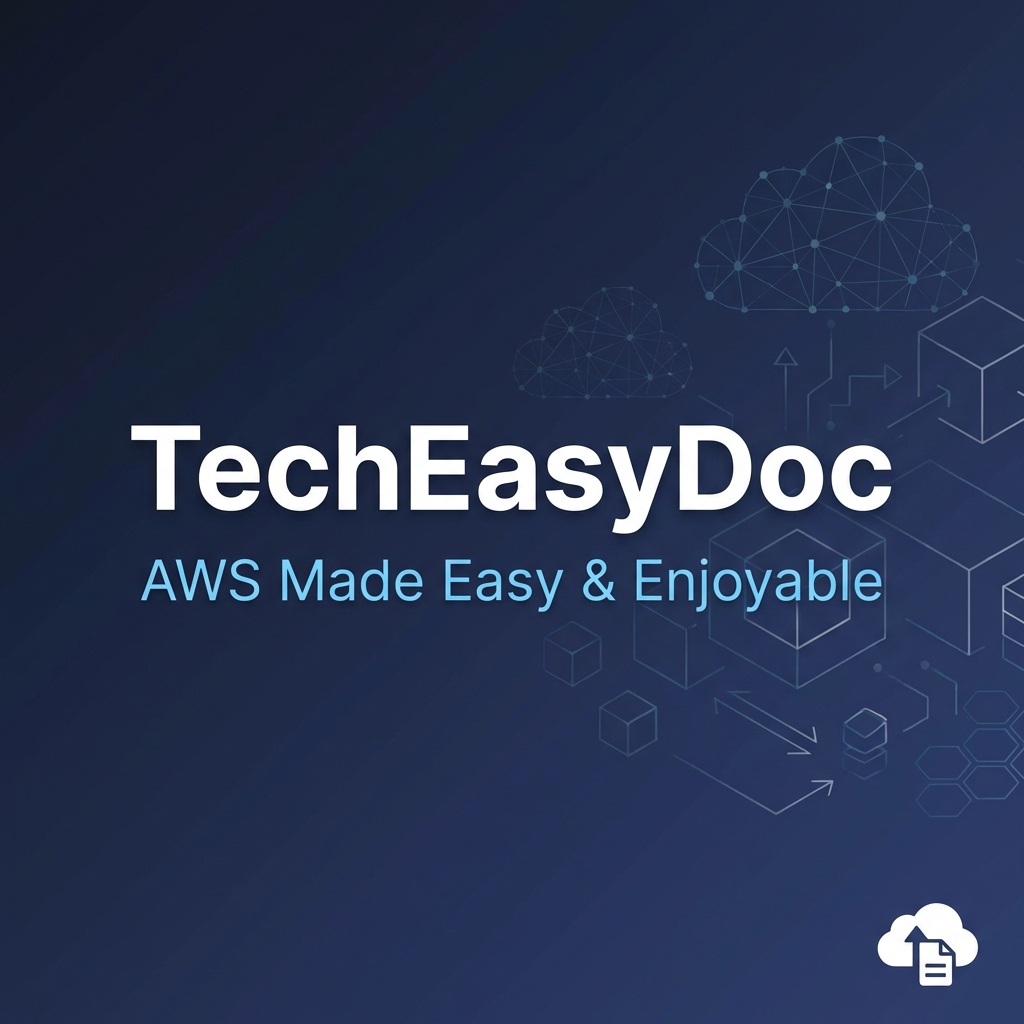
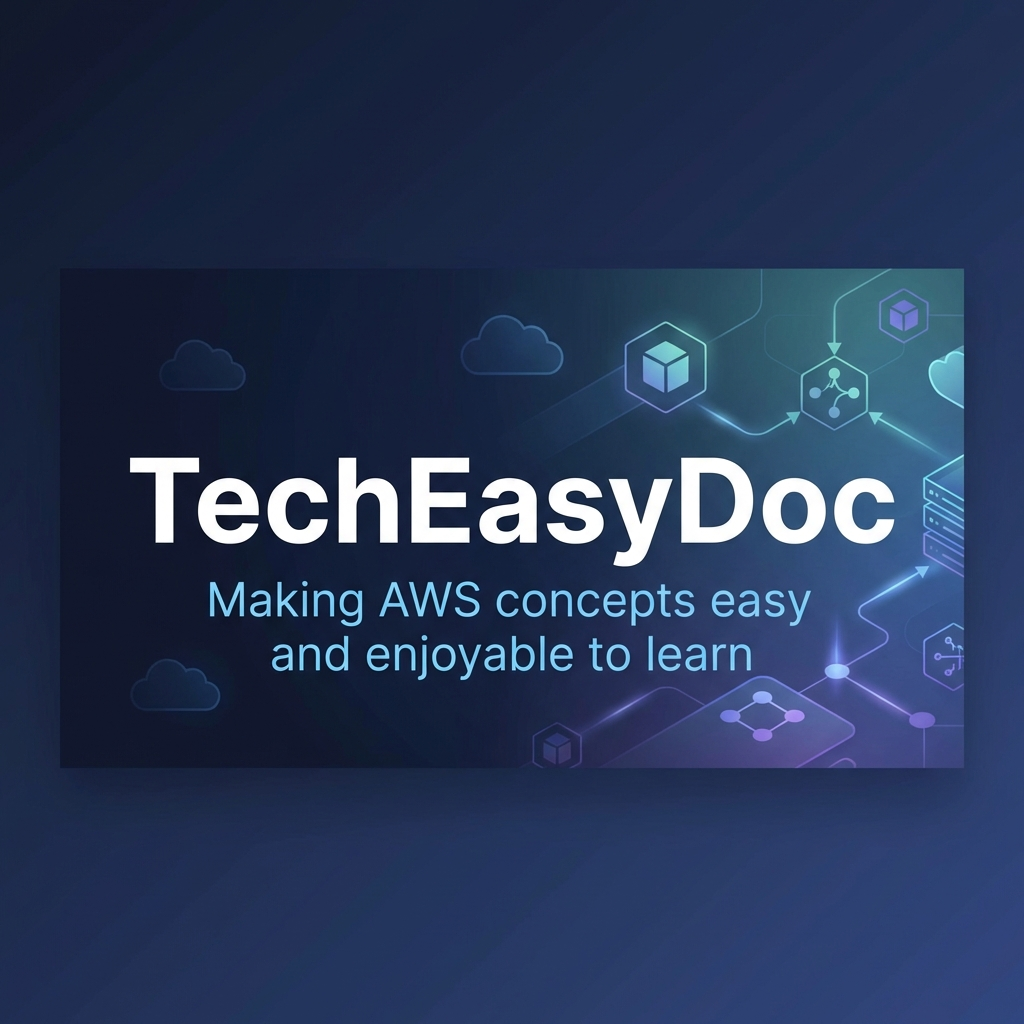
contribution and readme guide fix

diff --git a/pages/_document.tsx b/pages/_document.tsx
@@ -7,52 +7,12 @@ export default function Document() {
 				<title>AWS TechEasyDoc</title>
 				<meta
 					name='description'
-					content='Learn AWS Stuffs easily and enjoyably with TechEasyDoc. Explore our comprehensive guides, tutorials, and resources to master AWS services and best practices.'
+					content='Learn AWS concepts easily and enjoyably with TechEasyDoc. Explore our comprehensive guides, tutorials, and resources to master AWS services and best practices.'
 				/>
 				<meta
 					name='keywords'
-					content='AWS, AWS Stuffs, AWS tutorial, AWS guide, AWS resources, AWS documentation, AWS services, AWS best practices, AWS tips and tricks, AWS for beginners, AWS for developers, AWS for architects, AWS for DevOps, AWS for data scientists, AWS for machine learning'
+					content='AWS, AWS Concepts, AWS tutorial, AWS guide, AWS resources, AWS documentation, AWS services, AWS best practices, AWS tips and tricks, AWS for beginners, AWS for developers, AWS for architects, AWS for DevOps, AWS for data scientists, AWS for machine learning'
 				/>
-
-				{/* Open Graph / Facebook */}
-				<meta property='og:type' content='website' />
-				<meta
-					property='og:url'
-					content='https://aws.techeasydoc.com/'
-				/>
-				<meta
-					property='og:title'
-					content='AWS TechEasyDoc - AWS Made Easy'
-				/>
-				<meta
-					property='og:description'
-					content='Learn AWS Stuffs easily and enjoyably with TechEasyDoc. Explore our comprehensive guides, tutorials, and resources to master AWS services and best practices.'
-				/>
-				<meta
-					property='og:image'
-					content='https://aws.techeasydoc.com/og-image.png'
-				/>
-				<meta property='og:site_name' content='TechEasyDoc' />
-
-				{/* Twitter Card */}
-				<meta name='twitter:card' content='summary_large_image' />
-				<meta
-					name='twitter:url'
-					content='https://aws.techeasydoc.com/'
-				/>
-				<meta
-					name='twitter:title'
-					content='AWS TechEasyDoc - AWS Made Easy'
-				/>
-				<meta
-					name='twitter:description'
-					content='Learn AWS Stuffs easily and enjoyably with TechEasyDoc. Explore our comprehensive guides, tutorials, and resources to master AWS services and best practices.'
-				/>
-				<meta
-					name='twitter:image'
-					content='https://aws.techeasydoc.com/og-image.png'
-				/>
-
 				<link rel='icon' href='/logoSM.png' type='image/png' />
 			</Head>
 			<body>

diff --git a/theme.config.jsx b/theme.config.jsx
@@ -9,22 +9,44 @@ export default {
 			titleTemplate: '%s – TechEasyDoc',
 		};
 	},
-	head: (
-		<>
-			<Script
-				src='https://www.googletagmanager.com/gtag/js?id=G-EDY2ZLQN2J'
-				strategy='afterInteractive'
-			/>
-			<Script id='google-analytics' strategy='afterInteractive'>
-				{`
-					window.dataLayer = window.dataLayer || [];
-					function gtag(){dataLayer.push(arguments);}
-					gtag('js', new Date());
-					gtag('config', 'G-EDY2ZLQN2J');
-				`}
-			</Script>
-		</>
-	),
+	head: ({ title, meta }) => {
+		const ogTitle = meta?.title || title || 'TechEasyDoc';
+		const ogDescription =
+			meta?.description ||
+			'Making AWS concepts easy and enjoyable to learn';
+		const ogImage = 'https://aws.techeasydoc.com/og-image.png';
+
+		return (
+			<>
+				{/* Dynamic OG Tags */}
+				<meta property='og:type' content='article' />
+				<meta property='og:title' content={ogTitle} />
+				<meta property='og:description' content={ogDescription} />
+				<meta property='og:image' content={ogImage} />
+				<meta property='og:site_name' content='TechEasyDoc' />
+
+				{/* Dynamic Twitter Tags */}
+				<meta name='twitter:card' content='summary_large_image' />
+				<meta name='twitter:title' content={ogTitle} />
+				<meta name='twitter:description' content={ogDescription} />
+				<meta name='twitter:image' content={ogImage} />
+
+				{/* Google Analytics */}
+				<Script
+					src='https://www.googletagmanager.com/gtag/js?id=G-EDY2ZLQN2J'
+					strategy='afterInteractive'
+				/>
+				<Script id='google-analytics' strategy='afterInteractive'>
+					{`
+						window.dataLayer = window.dataLayer || [];
+						function gtag(){dataLayer.push(arguments);}
+						gtag('js', new Date());
+						gtag('config', 'G-EDY2ZLQN2J');
+					`}
+				</Script>
+			</>
+		);
+	},
 	project: {
 		link: 'https://github.com/shuding/nextra',
 	},

diff --git a/README.md b/README.md
@@ -4,33 +4,59 @@
   </a>
 </p>
 
-  <p align="center">AWS Stuffs made easy and enjoyable<p>
+  <p align="center">Making AWS concepts easy and enjoyable to learn<p>
 
 <p align="center">
-   <a href="https://">View Blog</a>
+   <a href="https://aws.techeasydoc.com/">View Blog</a>
 </p>
 
 [![License: MIT](https://img.shields.io/badge/License-MIT-blue.svg)](https://opensource.org/licenses/MIT)
 [![PRs Welcome](https://img.shields.io/badge/PRs-welcome-brightgreen.svg)](https://makeapullrequest.com)
 
 # AWS Tech Easy Blog
-Welcome to the **AWS Tech Simplified Blog** – an open-source platform dedicated to demystifying complex AWS technologies. This Next.js project uses [Nextra](https://nextra.vercel.app) to render and manage blog content, making it easy for anyone to run it locally and contribute their insights.
+
+Welcome to **AWS Tech Easy Blog**, an open source platform focused on simplifying AWS concepts through practical, easy to understand articles.  
+This project is built with **Next.js** and **Nextra**, and all blog content is written in **MDX**.
+
+You can contribute by writing articles, improving existing posts, fixing typos, or enhancing the site itself.
 
 ---
 
-## Table of Contents
+## ✍ Quick Start for Writers (No Coding Needed)
 
-- [Features](#features)
-- [Getting Started](#getting-started)
-  - [Prerequisites](#prerequisites)
-  - [Installation](#installation)
-  - [Running Locally](#running-locally)
-  - [Project Structure](#project-structure)
-- [Contributing](#contributing)
-- [Buy Me a Coffee](#buy-me-a-coffee)
-- [License](#license)
-- [Additional Resources](#additional-resources)
+You do not need to run the project locally to contribute an article.
 
+1. Fork this repository
+2. Go to the appropriate category folder inside `pages/`
+3. Create a new `.mdx` file using the template below
+4. Commit your changes and open a Pull Request to the `main` branch
+
+### Blog Post Template
+
+```md
+---
+title: "Your AWS Guide Title"
+date: "2024-03-20"
+author: "Your Name"
+description: "A clear summary of your post"
+cover: "/images/your-image.jpg"
+tags: ["EC2", "Serverless"]
+---
+
+## Introduction
+
+## Main Content
+
+## Conclusion
+```
+
+### File Naming Rules
+- Use lowercase and kebab case
+  Example: `understanding-ec2-auto-scaling.mdx`
+
+### Categories
+- Use existing folders like EC2, EKS, IAM, Serverless, etc.
+- If your topic does not fit, you may create a new category folder and mention it in your PR description
 ---
 
 ## Features
@@ -42,9 +68,9 @@ Welcome to the **AWS Tech Simplified Blog** – an open-source platform dedicate
 
 ---
 
-## Getting Started
+## Getting Started (For Local Development)
 
-Follow these steps to set up the project on your local machine.
+Follow these steps if you want to run the project locally or contribute to the code.
 
 ### Prerequisites
 
@@ -87,43 +113,14 @@ Your blog should now be running at http://localhost:3000.
     │   └── EKS/          
     
 
-#### Adding a Blog Post
-1. Create a new `.mdx` file inside a matching category.
-2. Use frontmatter:
-    ```
-    ---
-    title: 'Your AWS Guide Title'
-    date: '2024-03-20'
-    author: 'Your Name'
-    description: 'A clear summary of your post'
-    cover: '/images/your-image.jpg'
-    tags: ['EC2', 'Serverless']
-    ---
 ## Contributing
-We welcome contributions to make AWS technology even more accessible! Here’s how you can help:
+We welcome both content and code contributions.
 
-1. **Fork the Repository**: Click the "Fork" button at the top right of the repository page.
-
-2. **Create a Feature Branch**:
-
-    ```bash
-    git checkout -b feature/your-feature-name
-3. **Make Your Changes**: Follow the existing code style and update documentation as needed.
-
-4. **Commit Your Changes**: 
-    ```bash
-    git commit -am "Add: [brief description of your changes]"
-5. Push to Your Fork:
-    ```bash
-    git push origin feature/your-feature-name
-6. **Submit a Pull Request**: Open a pull request explaining your changes and referencing any related issues.
-
-If you’re new to contributing, check out our CONTRIBUTING.md file for detailed guidelines and best practices.
+For detailed guidelines, please read **CONTRIBUTING.md**.
 
 ## ☕ Buy Me a Coffee
 
 If you find this project helpful, consider supporting my caffeine addiction:  
 
 [![Buy Me A Coffee](https://img.shields.io/badge/Buy_Me_A_Coffee-FFDD00?style=for-the-badge&logo=buy-me-a-coffee&logoColor=black)](https://buymeacoffee.com/techeasydoc)
-
 ---
